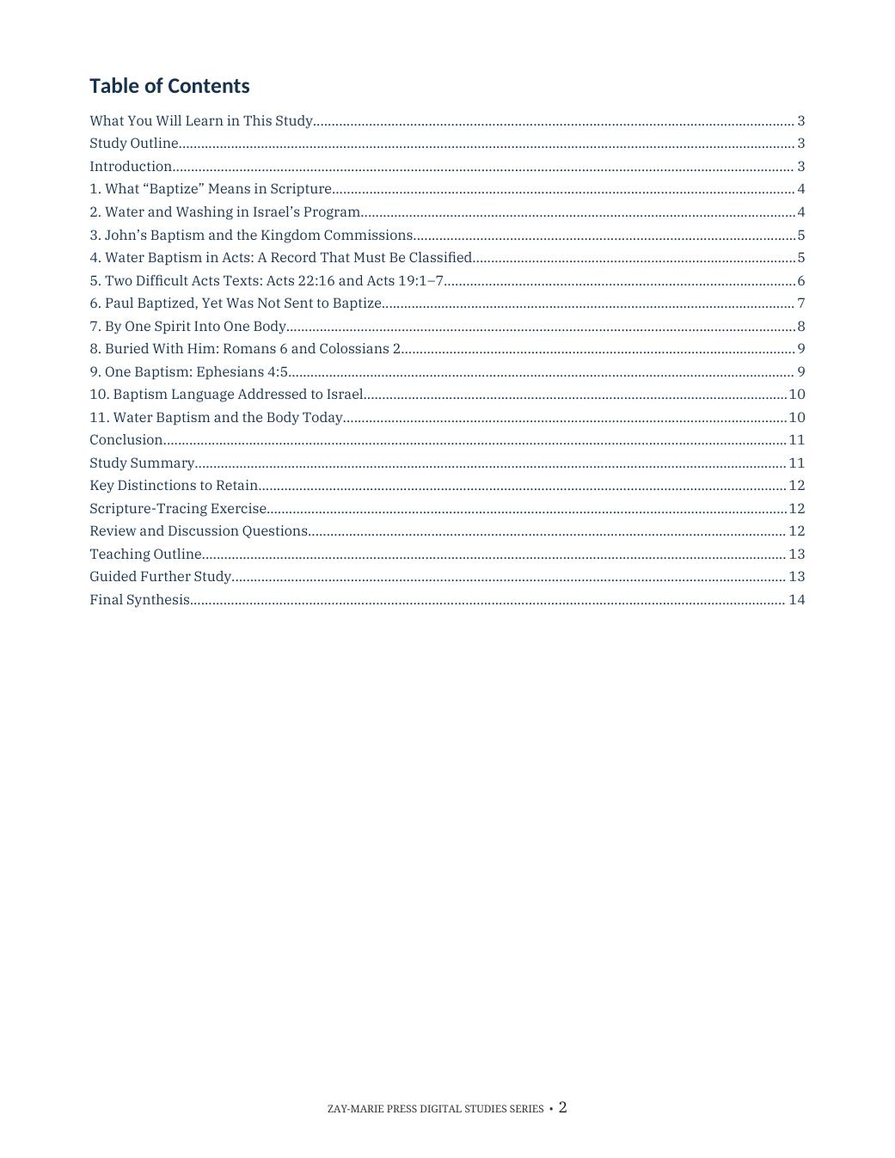
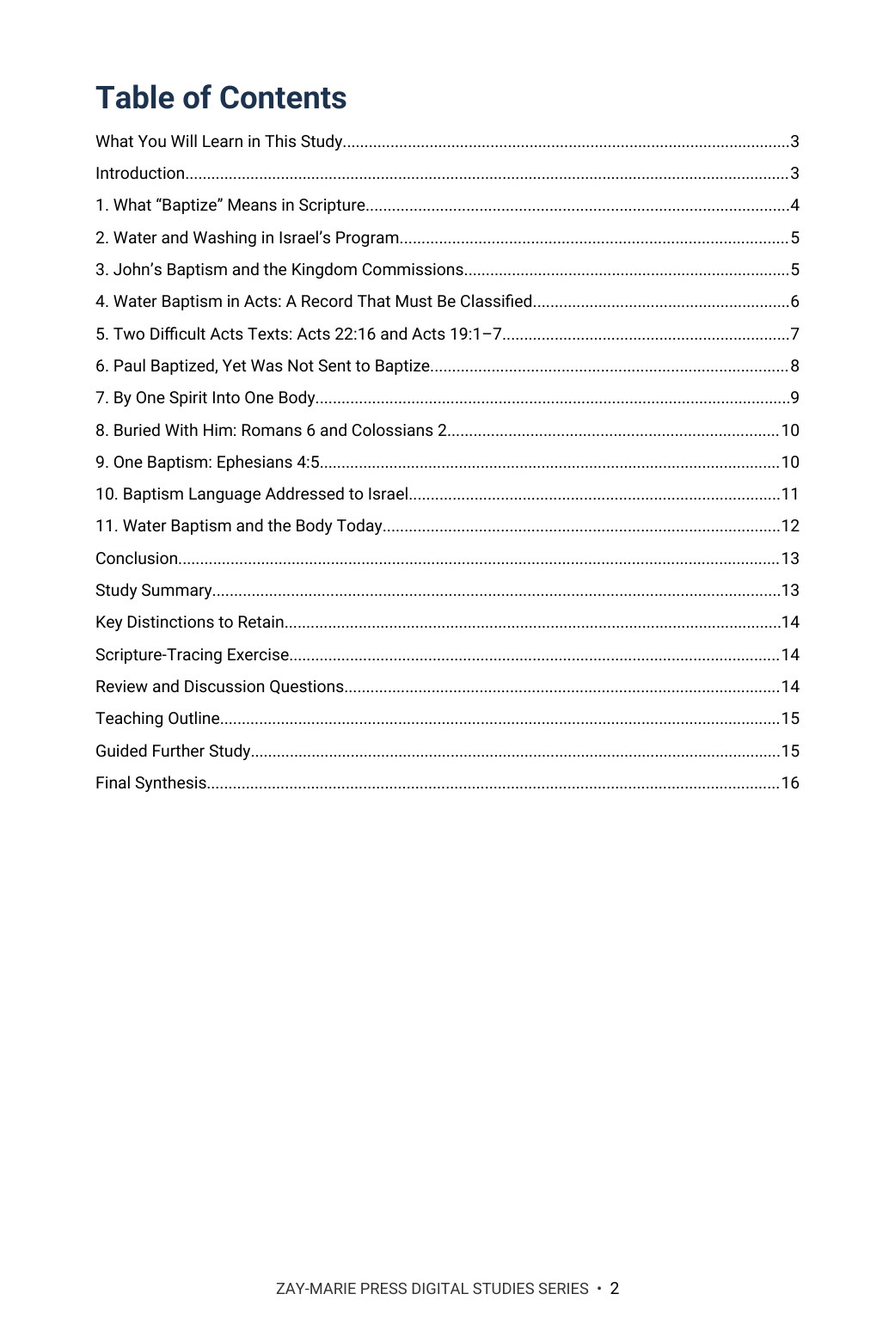
Study 42: Roboto/Standard rebuild, website cover kept, KJV tables, previews 2/3/6, 16 pages; PAM audit v1.73
Claude-Session: https://claude.ai/code/session_013kzJPyMkodVfrxEZGjk3me

diff --git a/study-42-one-baptism.html b/study-42-one-baptism.html
@@ -1,5 +1,5 @@
 <!doctype html>
 <html lang="en"><head><meta charset="utf-8"><meta name="viewport" content="width=device-width,initial-scale=1"><title>One Baptism | Zay-Marie Press</title><meta name="description" content="What is the one baptism of Ephesians 4:5? Define baptism from Scripture, classify every water baptism in Acts, and trace Paul’s teaching on Spirit baptism into the one Body. Preview Study 42 from Zay-Marie Press."><link rel="stylesheet" href="styles.css?v=20260921-4"><link rel="icon" type="image/png" href="assets/zay-marie-press-favicon.png"><style>
 .study-detail-page{background:#fff;color:#252525}.detail-hero{background:linear-gradient(135deg,#f8f5ec,#e3ece2);padding:58px 0}.detail-hero-grid{display:grid;grid-template-columns:minmax(250px,.72fr) minmax(0,1.28fr);gap:58px;align-items:center}.detail-cover{max-width:390px;margin:auto}.detail-cover img{display:block;width:100%;height:auto;box-shadow:0 14px 36px rgba(8,45,69,.18)}.detail-hero h1{font-size:clamp(2.7rem,5vw,4.7rem);line-height:1.02;margin:8px 0 10px;color:#143823}.detail-subtitle{font-family:Georgia,serif;font-size:1.35rem;font-weight:700;color:#082d45;margin:0 0 7px}.detail-kicker{font-family:Georgia,serif;font-style:italic;font-size:1.05rem;color:#4a4a44;margin:0 0 22px}.detail-copy{font-size:1.08rem;line-height:1.65;max-width:760px}.detail-buyline{display:flex;align-items:center;gap:18px;flex-wrap:wrap;margin-top:25px}.detail-price{font-family:Georgia,serif;font-size:2rem;font-weight:700;color:#143823}.detail-format,.preview-card .page-no{font-family:Arial,sans-serif;font-size:.76rem;font-weight:700;letter-spacing:.1em;text-transform:uppercase;color:#176b3a}.detail-button{display:inline-block;background:#176b3a;color:#fff;padding:13px 22px;font-family:Arial,sans-serif;font-size:.8rem;font-weight:700;letter-spacing:.07em;text-transform:uppercase}.detail-button.pending{opacity:.72;cursor:default}.detail-section{padding:66px 0}.detail-section.soft{background:#f6f7f2}.detail-section.cream{background:#faf8f2}.detail-section h2{color:#143823;margin:6px 0 18px;font-size:clamp(2rem,3.4vw,3rem)}.detail-section .lead{max-width:920px;font-size:1.1rem;line-height:1.62}.study-distinction{max-width:920px;margin-top:28px;margin-bottom:28px;padding:26px 28px;background:#fff;border:1px solid #d8d1bf;border-left:4px solid #b8871c}.study-distinction h3{margin:0 0 10px;color:#143823}.study-distinction p{margin:0 0 14px;line-height:1.62}.study-distinction a{font-family:Arial,sans-serif;font-weight:700;color:#176b3a;text-decoration:none}.study-points{display:grid;grid-template-columns:repeat(3,1fr);gap:18px;margin-top:28px;margin-bottom:28px}.study-point,.scripture-card,.preview-card,.include-item{background:#fff;border:1px solid var(--line);text-align:left}.study-point{border-top:3px solid #176b3a;padding:22px}.study-point h3{color:#143823;margin:0 0 8px;font-size:1.2rem}.study-point p,.scripture-card p,.preview-card p,.include-item p{margin:0;line-height:1.55}.scripture-grid{display:grid;grid-template-columns:repeat(4,1fr);gap:14px;margin-top:24px;margin-bottom:24px}.scripture-card{padding:22px 20px;color:#143823}.scripture-card h3{margin:0 0 9px;font-family:Georgia,serif;font-size:1rem;line-height:1.35}.scripture-card p{font-size:.94rem;color:#45453f}.excerpt{max-width:900px;margin:28px auto;border-left:4px solid #b8871c;padding:10px 0 10px 28px}.excerpt blockquote{font-family:Georgia,serif;font-size:clamp(1.45rem,2.5vw,2rem);line-height:1.45;color:#143823;margin:0 0 16px}.excerpt p{line-height:1.6;margin:0}.preview-grid{display:grid;grid-template-columns:repeat(2,1fr);gap:20px;margin-top:28px;margin-bottom:28px}.preview-card{padding:18px;min-height:210px;box-shadow:0 7px 20px rgba(20,40,25,.05)}.preview-image-link{display:block;margin:0 0 18px}.preview-image-link img{display:block;width:100%;height:auto;border:1px solid #d8d1bf;box-shadow:0 8px 22px rgba(20,40,25,.1);transition:transform .18s ease,box-shadow .18s ease}.preview-image-link:hover img{transform:translateY(-2px);box-shadow:0 11px 28px rgba(20,40,25,.16)}.preview-card h3{color:#143823;margin:8px 0 10px}.preview-instruction{margin:10px 0 0;font-family:Arial,sans-serif;font-size:.78rem;letter-spacing:.04em;color:#5b5b55}.includes-grid{display:grid;grid-template-columns:repeat(4,1fr);gap:14px;margin-top:26px}.include-item{padding:22px 20px;color:#143823}.include-item h3{margin:0 0 9px;font-family:Arial,sans-serif;font-size:.86rem;line-height:1.35;letter-spacing:.02em}.include-item p{font-size:.94rem;color:#45453f}.final-buy{background:#082d45;color:#fff;border-top:4px solid #b8871c;padding:42px 48px;display:grid;grid-template-columns:1fr auto;gap:36px;align-items:center}.final-buy .eyebrow,.final-buy h2,.final-buy .detail-price{color:#fff}.final-buy h2{margin:7px 0 6px}.final-buy p{margin:0}.final-offer{text-align:center}.back-link{display:inline-block;margin-top:18px;color:#143823;font-family:Arial,sans-serif;font-weight:700;text-decoration:none}.preview-lightbox{position:fixed;inset:0;z-index:10000;display:none;align-items:flex-start;justify-content:center;background:rgba(8,22,16,.88);padding:24px;overflow:auto}.preview-lightbox.open{display:flex}.preview-lightbox img{display:block;width:auto;height:auto;max-width:none;box-shadow:0 18px 55px rgba(0,0,0,.4);background:#fff}.preview-lightbox-close{position:fixed;top:18px;right:24px;z-index:10001;width:46px;height:46px;border:1px solid rgba(255,255,255,.65);border-radius:50%;background:rgba(0,0,0,.55);color:#fff;font:32px/1 Arial,sans-serif;cursor:pointer}@media(max-width:900px){.detail-hero-grid{grid-template-columns:1fr;gap:34px}.detail-cover{max-width:330px}.study-points{grid-template-columns:repeat(2,1fr)}.scripture-grid,.includes-grid{grid-template-columns:repeat(2,1fr)}.preview-grid,.final-buy{grid-template-columns:1fr}.final-offer{text-align:left}}@media(max-width:560px){.detail-hero{padding:42px 0}.detail-section{padding:50px 0}.study-points,.scripture-grid,.includes-grid{grid-template-columns:1fr}.final-buy{padding:32px 24px}.detail-buyline{align-items:flex-start;flex-direction:column;gap:8px}.preview-lightbox{padding:58px 10px 24px}.preview-lightbox img{width:100%;max-width:100%;height:auto}} .detail-hero h1{font-size:clamp(2.1rem,4.2vw,3.7rem);line-height:1.08}</style></head><body class="study-detail-page">
-<header class="site-header"><div class="wrap nav"><a class="logo" href="index.html" aria-label="Zay-Marie Press home"><img src="assets/zay-marie-press-logo-hq.png" alt="Zay-Marie Press" width="420" height="238"></a><button class="menu-toggle" type="button" aria-expanded="false" aria-controls="primary-nav">MENU</button><nav aria-label="Primary navigation" class="primary-nav" id="primary-nav"><a href="index.html">HOME</a><a href="books.html">BOOKS</a><a href="series.html">SERIES</a><a class="active" aria-current="page" href="digital-studies.html">DIGITAL STUDIES</a><a href="biblical-hermeneutics-course.html">COURSE</a><a href="about.html">ABOUT</a><a href="resources.html">RESOURCES</a><a href="contact.html">CONTACT</a></nav></div></header><main><section class="detail-hero"><div class="wrap detail-hero-grid"><div class="detail-cover"><picture><source srcset="assets/study-42-cover.webp" type="image/webp"><img src="assets/study-42-cover.jpg" alt="One Baptism — Study 42 cover"></picture></div><div><div class="eyebrow">STUDY 42 · DIGITAL STUDY</div><h1>One Baptism</h1><p class="detail-subtitle">Water Baptism, Spirit Baptism, and the Body of Christ</p><p class="detail-kicker">A Biblical Examination of Baptism’s Meaning, the Water Baptisms in Acts, and the Baptism Paul Teaches the Body</p><p class="detail-copy">Paul writes that there is “one baptism.” Yet Scripture records John’s baptism, the baptism commanded by the Twelve, baptisms during Paul’s own ministry, a baptism by one Spirit into one body, and a baptism unto Moses in which no one got wet.</p><p class="detail-copy">This study defines baptism from Scripture, classifies every water baptism recorded in Acts, and follows Paul’s own teaching to the one baptism that places every believer into the Body of Christ.</p><div class="detail-buyline"><span class="detail-price">$5.99</span><span class="detail-format">Digital PDF · 15 Pages</span><span class="detail-button pending" aria-disabled="true">Checkout Coming Soon</span></div></div></div></section><section class="detail-section"><div class="wrap"><div class="eyebrow">ABOUT THIS STUDY</div><h2>Many Baptisms, One Baptism</h2><p class="lead">Baptism in Scripture means identification, and the element varies: water, the Spirit, suffering, even a cloud and a sea. Reading each baptism by its agent, element, and result removes most of the contradictions readers find when every use of the word is assumed to mean the same act.</p><p class="lead">Water baptism belongs to Israel’s program, from priestly washing to John’s baptism and the commission of the Twelve, and it continues throughout Acts. Paul baptized a few people during the overlap, yet wrote that Christ “sent me not to baptize.” In his letters, the Body’s baptism is the Spirit’s work of placing every believer into Christ.</p><p class="lead">This is not a study of Peter’s Pentecost command in isolation, which Study 20 reads in its own audience and setting, nor of Mark 16’s sign commission joining belief and baptism, which Study 25 examines on its own terms, nor of the Spirit’s repeated fillings in Acts, which Study 34 distinguishes from a once-for-all baptism. Its task is broader: to classify every baptism Scripture names — by agent, element, and result — and to identify which one alone places a believer into the Body.</p><div class="study-distinction"><h3>How These Studies Relate</h3><p>Study 42 defines baptism from Scripture and identifies from Paul’s letters the one baptism that places believers into the Body of Christ.</p><p><a href="study-20-understanding-acts-2-38.html">Study 20 — Understanding Acts 2:38</a> Read Peter’s Pentecost command to Israel in detail; this study classifies it among the many baptisms Scripture describes.</p><p><a href="study-25-the-signs-that-followed.html">Study 25 — The Signs That Followed</a> Examine the Kingdom commission that joins belief and baptism in Mark 16, which this study distinguishes from Paul’s commission.</p><p><a href="study-34-filled-again.html">Study 34 — Filled Again</a> Follow the Spirit’s fillings in Acts, which this study distinguishes from the Spirit’s once-for-all baptism into the one Body.</p><p class="connection-guide-link"><a href="study-connections.html#study-42">Explore the full connection guide for Study 42 →</a></p></div></div></section><section class="detail-section soft"><div class="wrap"><div class="eyebrow">WHAT YOU’LL STUDY</div><h2>Let Each Baptism Be Read on Its Own Terms</h2><div class="study-points"><div class="study-point"><h3>What “Baptize” Means</h3><p>See why baptism means identification, including baptisms in which no water touches anyone.</p></div><div class="study-point"><h3>Water in Israel’s Program</h3><p>Trace priestly washing, the prophets’ promised cleansing, and John’s stated purpose for his baptism.</p></div><div class="study-point"><h3>Every Baptism in Acts</h3><p>Classify each recorded water baptism by audience, administrator, order, and stated purpose.</p></div><div class="study-point"><h3>The Difficult Texts</h3><p>Work through Acts 22:16, Acts 19:1–7, and Peter’s own comment on Cornelius in Acts 11:16.</p></div><div class="study-point"><h3>Not Sent to Baptize</h3><p>Read 1 Corinthians 1:13–17, and see why Paul baptized a few during the overlap without making it part of his commission.</p></div><div class="study-point"><h3>The One Baptism</h3><p>Follow 1 Corinthians 12:13, Galatians 3:27, Romans 6, and Colossians 2 to Ephesians 4:5.</p></div></div></div></section><section class="detail-section cream"><div class="wrap"><div class="eyebrow">KEY SCRIPTURES</div><h2>Examine the Passages for Yourself</h2><div class="scripture-grid"><div class="scripture-card"><h3>1 Corinthians 10:1–2</h3><p>Israel was baptized unto Moses in the cloud and in the sea while crossing on dry ground.</p></div><div class="scripture-card"><h3>John 1:31</h3><p>John baptized with water so that Messiah would be made manifest to Israel.</p></div><div class="scripture-card"><h3>Acts 11:16</h3><p>Peter remembers that John baptized with water, but they would be baptized with the Holy Ghost.</p></div><div class="scripture-card"><h3>Acts 22:16</h3><p>Ananias’s instruction at Paul’s calling, read in its own setting.</p></div><div class="scripture-card"><h3>1 Corinthians 1:17</h3><p>“Christ sent me not to baptize, but to preach the gospel.”</p></div><div class="scripture-card"><h3>1 Corinthians 12:13</h3><p>By one Spirit every believer is baptized into one body.</p></div><div class="scripture-card"><h3>Romans 6:3–4; Colossians 2:11–12</h3><p>Buried and raised with Christ through the operation of God, with a circumcision made without hands.</p></div><div class="scripture-card"><h3>Ephesians 4:4–6</h3><p>One body, one Spirit, one Lord, one faith, one baptism.</p></div></div></div></section><section class="detail-section"><div class="wrap"><div class="eyebrow">FROM THE STUDY</div><h2>The Baptism That Makes the Body One</h2><div class="excerpt"><blockquote>“Paul does not write ‘one water baptism and one Spirit baptism.’ He writes ‘one baptism.’”</blockquote><p>Water baptism was commanded in Israel’s program and continued throughout Acts. The baptism Paul names among the unities of the Body is the one that makes the Body one: the Spirit’s placement of every believer into Christ.</p></div></div></section><section class="detail-section soft"><div class="wrap"><div class="eyebrow">A LOOK INSIDE</div><h2>Preview the Study Before You Purchase</h2><p class="preview-instruction">Click any page to enlarge it for reading.</p><div class="preview-grid"><div class="preview-card"><a class="preview-image-link" data-preview-lightbox href="assets/study-42-page-2.jpg"><img src="assets/study-42-page-2.jpg" alt="Study 42 page 2: table of contents"></a><div class="page-no">Page 2</div><h3>Table of Contents</h3><p>See the study’s full structure and scope at a glance.</p></div><div class="preview-card"><a class="preview-image-link" data-preview-lightbox href="assets/study-42-page-3.jpg"><img src="assets/study-42-page-3.jpg" alt="Study 42 page 3: what you will learn, study goal, and study outline"></a><div class="page-no">Page 3</div><h3>What You Will Learn</h3><p>See the study’s goal, outline, and the question it sets out to answer.</p></div><div class="preview-card"><a class="preview-image-link" data-preview-lightbox href="assets/study-42-page-7.jpg"><img src="assets/study-42-page-7.jpg" alt="Study 42 page 7: Paul baptized, yet was not sent to baptize, and why he baptized a few"></a><div class="page-no">Page 7</div><h3>Not Sent to Baptize</h3><p>Read Paul’s account of the baptisms he performed and why he baptized a few during the overlap.</p></div></div></div></section><section class="detail-section"><div class="wrap"><div class="eyebrow">WHAT’S INCLUDED</div><h2>A Focused Study Built for<br>Understanding and Teaching</h2><div class="includes-grid"><div class="include-item"><h3>15-Page In-Depth Biblical Study</h3><p>A careful study of baptism in Scripture and the one baptism of the Body.</p></div><div class="include-item"><h3>11 Core Teaching Sections</h3><p>Progress from the word’s meaning through Israel, Acts, and Paul’s letters.</p></div><div class="include-item"><h3>Two Reference Tables</h3><p>Compare the baptisms of Scripture and classify every water baptism in Acts.</p></div><div class="include-item"><h3>Four Worked Tests</h3><p>Test four common claims about baptism, including baptism as a commanded public testimony.</p></div><div class="include-item"><h3>14 Review Questions</h3><p>Test the study’s distinctions concerning agent, element, audience, and program.</p></div><div class="include-item"><h3>Teaching Outline</h3><p>A ready framework for teaching the doctrine of baptism with precision.</p></div><div class="include-item"><h3>Guided Further Study</h3><p>Return to Israel’s washings, John’s baptism, Acts, and Paul’s letters with directed questions.</p></div><div class="include-item"><h3>Final Synthesis Exercise</h3><p>Bring the evidence together in one concise, Scripture-based explanation.</p></div></div></div></section><section class="detail-section cream"><div class="wrap"><div class="final-buy"><div><div class="eyebrow">STUDY 42 · DIGITAL STUDY</div><h2>One Baptism</h2><p>15-page digital PDF · For personal use</p></div><div class="final-offer"><div class="detail-price">$5.99</div><span class="detail-button pending" aria-disabled="true">Checkout Coming Soon</span></div></div><a class="back-link" href="digital-studies.html">← Back to All Digital Studies</a></div></section><section class="study-method-course-bridge"><div class="wrap"><div class="study-method-course-panel"><div><div class="eyebrow">BUILD THE INTERPRETIVE METHOD</div><h2>Want More Than a Focused Study?</h2><p>Digital Studies examine particular biblical subjects and difficult passages. The 40-lesson Biblical Hermeneutics course teaches a complete, repeatable method for establishing meaning in context, determining proper assignment, and making responsible application.</p></div><a class="btn btn-primary" href="biblical-hermeneutics-course.html">BIBLICAL HERMENEUTICS COURSE</a></div></div></section></main>
+<header class="site-header"><div class="wrap nav"><a class="logo" href="index.html" aria-label="Zay-Marie Press home"><img src="assets/zay-marie-press-logo-hq.png" alt="Zay-Marie Press" width="420" height="238"></a><button class="menu-toggle" type="button" aria-expanded="false" aria-controls="primary-nav">MENU</button><nav aria-label="Primary navigation" class="primary-nav" id="primary-nav"><a href="index.html">HOME</a><a href="books.html">BOOKS</a><a href="series.html">SERIES</a><a class="active" aria-current="page" href="digital-studies.html">DIGITAL STUDIES</a><a href="biblical-hermeneutics-course.html">COURSE</a><a href="about.html">ABOUT</a><a href="resources.html">RESOURCES</a><a href="contact.html">CONTACT</a></nav></div></header><main><section class="detail-hero"><div class="wrap detail-hero-grid"><div class="detail-cover"><picture><source srcset="assets/study-42-cover.webp" type="image/webp"><img src="assets/study-42-cover.jpg" alt="One Baptism — Study 42 cover"></picture></div><div><div class="eyebrow">STUDY 42 · DIGITAL STUDY</div><h1>One Baptism</h1><p class="detail-subtitle">Water Baptism, Spirit Baptism, and the Body of Christ</p><p class="detail-kicker">A Biblical Examination of Baptism’s Meaning, the Water Baptisms in Acts, and the Baptism Paul Teaches the Body</p><p class="detail-copy">Paul writes that there is “one baptism.” Yet Scripture records John’s baptism, the baptism commanded by the Twelve, baptisms during Paul’s own ministry, a baptism by one Spirit into one body, and a baptism unto Moses in which no one got wet.</p><p class="detail-copy">This study defines baptism from Scripture, classifies every water baptism recorded in Acts, and follows Paul’s own teaching to the one baptism that places every believer into the Body of Christ.</p><div class="detail-buyline"><span class="detail-price">$5.99</span><span class="detail-format">Digital PDF · 16 Pages</span><span class="detail-button pending" aria-disabled="true">Checkout Coming Soon</span></div></div></div></section><section class="detail-section"><div class="wrap"><div class="eyebrow">ABOUT THIS STUDY</div><h2>Many Baptisms, One Baptism</h2><p class="lead">Baptism in Scripture means identification, and the element varies: water, the Spirit, suffering, even a cloud and a sea. Reading each baptism by its agent, element, and result removes most of the contradictions readers find when every use of the word is assumed to mean the same act.</p><p class="lead">Water baptism belongs to Israel’s program, from priestly washing to John’s baptism and the commission of the Twelve, and it continues throughout Acts. Paul baptized a few people during the overlap, yet wrote that Christ “sent me not to baptize.” In his letters, the Body’s baptism is the Spirit’s work of placing every believer into Christ.</p><p class="lead">This is not a study of Peter’s Pentecost command in isolation, which Study 20 reads in its own audience and setting, nor of Mark 16’s sign commission joining belief and baptism, which Study 25 examines on its own terms, nor of the Spirit’s repeated fillings in Acts, which Study 34 distinguishes from a once-for-all baptism. Its task is broader: to classify every baptism Scripture names — by agent, element, and result — and to identify which one alone places a believer into the Body.</p><div class="study-distinction"><h3>How These Studies Relate</h3><p>Study 42 defines baptism from Scripture and identifies from Paul’s letters the one baptism that places believers into the Body of Christ.</p><p><a href="study-20-understanding-acts-2-38.html">Study 20 — Understanding Acts 2:38</a> Read Peter’s Pentecost command to Israel in detail; this study classifies it among the many baptisms Scripture describes.</p><p><a href="study-25-the-signs-that-followed.html">Study 25 — The Signs That Followed</a> Examine the Kingdom commission that joins belief and baptism in Mark 16, which this study distinguishes from Paul’s commission.</p><p><a href="study-34-filled-again.html">Study 34 — Filled Again</a> Follow the Spirit’s fillings in Acts, which this study distinguishes from the Spirit’s once-for-all baptism into the one Body.</p><p class="connection-guide-link"><a href="study-connections.html#study-42">Explore the full connection guide for Study 42 →</a></p></div></div></section><section class="detail-section soft"><div class="wrap"><div class="eyebrow">WHAT YOU’LL STUDY</div><h2>Let Each Baptism Be Read on Its Own Terms</h2><div class="study-points"><div class="study-point"><h3>What “Baptize” Means</h3><p>See why baptism means identification, including baptisms in which no water touches anyone.</p></div><div class="study-point"><h3>Water in Israel’s Program</h3><p>Trace priestly washing, the prophets’ promised cleansing, and John’s stated purpose for his baptism.</p></div><div class="study-point"><h3>Every Baptism in Acts</h3><p>Classify each recorded water baptism by audience, administrator, order, and stated purpose.</p></div><div class="study-point"><h3>The Difficult Texts</h3><p>Work through Acts 22:16, Acts 19:1–7, and Peter’s own comment on Cornelius in Acts 11:16.</p></div><div class="study-point"><h3>Not Sent to Baptize</h3><p>Read 1 Corinthians 1:13–17, and see why Paul baptized a few during the overlap without making it part of his commission.</p></div><div class="study-point"><h3>The One Baptism</h3><p>Follow 1 Corinthians 12:13, Galatians 3:27, Romans 6, and Colossians 2 to Ephesians 4:5.</p></div></div></div></section><section class="detail-section cream"><div class="wrap"><div class="eyebrow">KEY SCRIPTURES</div><h2>Examine the Passages for Yourself</h2><div class="scripture-grid"><div class="scripture-card"><h3>1 Corinthians 10:1–2</h3><p>Israel was baptized unto Moses in the cloud and in the sea while crossing on dry ground.</p></div><div class="scripture-card"><h3>John 1:31</h3><p>John baptized with water so that Messiah would be made manifest to Israel.</p></div><div class="scripture-card"><h3>Acts 11:16</h3><p>Peter remembers that John baptized with water, but they would be baptized with the Holy Ghost.</p></div><div class="scripture-card"><h3>Acts 22:16</h3><p>Ananias’s instruction at Paul’s calling, read in its own setting.</p></div><div class="scripture-card"><h3>1 Corinthians 1:17</h3><p>“Christ sent me not to baptize, but to preach the gospel.”</p></div><div class="scripture-card"><h3>1 Corinthians 12:13</h3><p>By one Spirit every believer is baptized into one body.</p></div><div class="scripture-card"><h3>Romans 6:3–4; Colossians 2:11–12</h3><p>Buried and raised with Christ through the operation of God, with a circumcision made without hands.</p></div><div class="scripture-card"><h3>Ephesians 4:4–6</h3><p>One body, one Spirit, one Lord, one faith, one baptism.</p></div></div></div></section><section class="detail-section"><div class="wrap"><div class="eyebrow">FROM THE STUDY</div><h2>The Baptism That Makes the Body One</h2><div class="excerpt"><blockquote>“Paul does not write ‘one water baptism and one Spirit baptism.’ He writes ‘one baptism.’”</blockquote><p>Water baptism was commanded in Israel’s program and continued throughout Acts. The baptism Paul names among the unities of the Body is the one that makes the Body one: the Spirit’s placement of every believer into Christ.</p></div></div></section><section class="detail-section soft"><div class="wrap"><div class="eyebrow">A LOOK INSIDE</div><h2>Preview the Study Before You Purchase</h2><p class="preview-instruction">Click any page to enlarge it for reading.</p><div class="preview-grid"><div class="preview-card"><a class="preview-image-link" data-preview-lightbox href="assets/study-42-page-2.jpg"><img src="assets/study-42-page-2.jpg" alt="Study 42 page 2: table of contents"></a><div class="page-no">Page 2</div><h3>Table of Contents</h3><p>See the study’s full structure and scope at a glance.</p></div><div class="preview-card"><a class="preview-image-link" data-preview-lightbox href="assets/study-42-page-3.jpg"><img src="assets/study-42-page-3.jpg" alt="Study 42 page 3: what you will learn, study goal, and study outline"></a><div class="page-no">Page 3</div><h3>What You Will Learn</h3><p>See the study’s goal, outline, and the question it sets out to answer.</p></div><div class="preview-card"><a class="preview-image-link" data-preview-lightbox href="assets/study-42-page-6.jpg"><img src="assets/study-42-page-6.jpg" alt="Study 42 page 6: water baptism in Acts, with the table that classifies each recorded baptism"></a><div class="page-no">Page 6</div><h3>Water Baptism in Acts</h3><p>See how the study classifies each recorded water baptism by setting, audience, and administrator.</p></div></div></div></section><section class="detail-section"><div class="wrap"><div class="eyebrow">WHAT’S INCLUDED</div><h2>A Focused Study Built for<br>Understanding and Teaching</h2><div class="includes-grid"><div class="include-item"><h3>16-Page In-Depth Biblical Study</h3><p>A careful study of baptism in Scripture and the one baptism of the Body.</p></div><div class="include-item"><h3>11 Core Teaching Sections</h3><p>Progress from the word’s meaning through Israel, Acts, and Paul’s letters.</p></div><div class="include-item"><h3>Five Reference Tables</h3><p>Compare the baptisms of Scripture, classify every water baptism in Acts, and read key passages side by side in the KJV.</p></div><div class="include-item"><h3>Four Worked Tests</h3><p>Test four common claims about baptism, including baptism as a commanded public testimony.</p></div><div class="include-item"><h3>14 Review Questions</h3><p>Test the study’s distinctions concerning agent, element, audience, and program.</p></div><div class="include-item"><h3>Teaching Outline</h3><p>A ready framework for teaching the doctrine of baptism with precision.</p></div><div class="include-item"><h3>Guided Further Study</h3><p>Return to Israel’s washings, John’s baptism, Acts, and Paul’s letters with directed questions.</p></div><div class="include-item"><h3>Final Synthesis Exercise</h3><p>Bring the evidence together in one concise, Scripture-based explanation.</p></div></div></div></section><section class="detail-section cream"><div class="wrap"><div class="final-buy"><div><div class="eyebrow">STUDY 42 · DIGITAL STUDY</div><h2>One Baptism</h2><p>16-page digital PDF · For personal use</p></div><div class="final-offer"><div class="detail-price">$5.99</div><span class="detail-button pending" aria-disabled="true">Checkout Coming Soon</span></div></div><a class="back-link" href="digital-studies.html">← Back to All Digital Studies</a></div></section><section class="study-method-course-bridge"><div class="wrap"><div class="study-method-course-panel"><div><div class="eyebrow">BUILD THE INTERPRETIVE METHOD</div><h2>Want More Than a Focused Study?</h2><p>Digital Studies examine particular biblical subjects and difficult passages. The 40-lesson Biblical Hermeneutics course teaches a complete, repeatable method for establishing meaning in context, determining proper assignment, and making responsible application.</p></div><a class="btn btn-primary" href="biblical-hermeneutics-course.html">BIBLICAL HERMENEUTICS COURSE</a></div></div></section></main>
 <div class="preview-lightbox" id="preview-lightbox" role="dialog" aria-modal="true" aria-label="Expanded study preview"><button class="preview-lightbox-close" type="button" aria-label="Close preview">×</button><img id="preview-lightbox-image" alt=""></div><footer class="site-footer"><div class="wrap footer-grid"><div class="footer-about"><h3>Zay-Marie Press</h3><p class="footer-tagline"><em>Where the Bible Means What It Says.</em></p><p>Zay-Marie Press is a Christian theological publisher dedicated to producing doctrinally precise, carefully structured biblical resources that equip pastors, teachers, and serious students with clarity, depth, and Scripture-anchored truth.</p><p><a href="https://zaymariepress.com">zaymariepress.com</a><br><a href="mailto:info@zaymariepress.com">info@zaymariepress.com</a></p></div><div class="footer-column"><h3>Explore</h3><div class="footer-links-stacked"><a href="books.html">Books</a><br><a href="series.html">Series</a><br><a href="biblical-hermeneutics-course.html">Course</a><br><a href="digital-studies.html">Digital Studies</a><br><a href="resources.html">Resources</a><br><a href="bible-book-summaries.html">Bible Book Summaries</a><br><a href="doctrinal-packets.html">Doctrinal Packets</a><br><a href="historical-drift.html">Historical Drift</a><br><a href="about.html">About</a><br><a href="contact.html">Contact</a></div></div><div class="footer-column"><h3>Reader Support</h3><div class="footer-links-stacked"><a href="reader-support.html#faq">FAQ</a><br><a href="reader-support.html#shipping-returns">Shipping &amp; Returns</a><br><a href="reader-support.html#digital-downloads">Digital Downloads</a><br><a href="reader-support.html#contact-support">Contact Support</a></div></div><div class="footer-column"><h3>Acts Overlap</h3><p><strong>Acts Overlap Theology Series</strong></p><p><em>Two Distinct Streams. One Overlap.</em></p><p><a href="series.html">Series Overview</a></p></div></div><div class="wrap footer-bottom">© 2026 Zay-Marie Press. All rights reserved.</div></footer><script src="site.js"></script><script>const lightbox=document.getElementById('preview-lightbox'),lightboxImage=document.getElementById('preview-lightbox-image'),closeLightbox=()=>{lightbox.classList.remove('open');lightboxImage.src='';};document.querySelectorAll('[data-preview-lightbox]').forEach(link=>link.addEventListener('click',event=>{event.preventDefault();lightboxImage.src=link.href;lightboxImage.alt=link.querySelector('img').alt;lightbox.classList.add('open');}));document.querySelector('.preview-lightbox-close').addEventListener('click',closeLightbox);lightbox.addEventListener('click',event=>{if(event.target===lightbox)closeLightbox();});document.addEventListener('keydown',event=>{if(event.key==='Escape')closeLightbox();});</script></body></html>

diff --git a/site.js b/site.js
@@ -62,7 +62,7 @@ const resourceModal=document.querySelector('#resource-modal'), resourceModalTitl
 if(resourceModal&&resourceModalTriggers.length){const closeResourceModal=()=>{resourceModal.hidden=true;document.body.classList.remove('resource-modal-open');lastResourceTrigger?.focus();};resourceModalTriggers.forEach(trigger=>trigger.addEventListener('click',()=>{lastResourceTrigger=trigger;if(resourceModalTitle)resourceModalTitle.textContent=trigger.dataset.title||'Resource';if(resourceModalDescription)resourceModalDescription.textContent=trigger.dataset.description||'';if(resourceModalLink){resourceModalLink.href=trigger.dataset.href||'#';resourceModalLink.textContent=trigger.dataset.linkText||'OPEN RESOURCE';}resourceModal.hidden=false;document.body.classList.add('resource-modal-open');resourceModalClose?.focus();}));resourceModalClose?.addEventListener('click',closeResourceModal);resourceModal.addEventListener('click',e=>{if(e.target===resourceModal)closeResourceModal();});document.addEventListener('keydown',e=>{if(e.key==='Escape'&&!resourceModal.hidden)closeResourceModal();});}
 
 /* Display the verified final-PDF page count at the primary purchase decision point. */
-const digitalStudyPageCounts={1:14,2:14,3:18,4:18,5:16,6:16,7:16,8:16,9:16,10:23,11:15,12:14,13:18,14:15,15:16,16:16,17:18,18:18,19:16,20:16,21:16,22:16,23:16,24:16,25:17,26:18,27:16,28:16,29:16,30:17,31:19,32:16,33:16,34:16,35:16,36:16,37:16,38:16,39:16,40:16,41:16,42:15,43:17,44:15,45:15,46:15,47:16,48:15,49:14,50:14,51:15,52:15,53:15,54:15,55:16,56:16,61:16,62:16,63:16,64:16,65:16,66:16,67:16,68:16,69:16,70:16,71:16};
+const digitalStudyPageCounts={1:14,2:14,3:18,4:18,5:16,6:16,7:16,8:16,9:16,10:23,11:15,12:14,13:18,14:15,15:16,16:16,17:18,18:18,19:16,20:16,21:16,22:16,23:16,24:16,25:17,26:18,27:16,28:16,29:16,30:17,31:19,32:16,33:16,34:16,35:16,36:16,37:16,38:16,39:16,40:16,41:16,42:16,43:17,44:15,45:15,46:15,47:16,48:15,49:14,50:14,51:15,52:15,53:15,54:15,55:16,56:16,61:16,62:16,63:16,64:16,65:16,66:16,67:16,68:16,69:16,70:16,71:16};
 const digitalStudyMatch=window.location.pathname.match(/\/study-(\d+)-/i);
 const digitalStudyFormat=document.querySelector('.detail-hero .detail-format');
 if(digitalStudyMatch&&digitalStudyFormat){const studyNumber=Number(digitalStudyMatch[1]),pageCount=digitalStudyPageCounts[studyNumber];if(pageCount)digitalStudyFormat.textContent=`Digital PDF · ${pageCount} Pages`;}

diff --git a/controlling-documents/Digital_Studies_PAM_Audit_v1.73.md b/controlling-documents/Digital_Studies_PAM_Audit_v1.73.md
@@ -1,4 +1,4 @@
-# Digital Studies vs. PAM Audit — v1.72
+# Digital Studies vs. PAM Audit — v1.73
 
 Working tracker and instructions for checking the Digital Studies against the Program Assignment Manual (PAM), §XIX of `Framework_Control_Document_Acts_Overlap.docx`, including its "Section 4 — Publisher Rulings". Same `_vX.Y` convention as the other controlling documents: update the status table and changelog as the audit proceeds, bump the version, and rename the file to match.
 
@@ -302,3 +302,4 @@ Study 15 PDF not yet supplied. Typography: none of Studies 2, 3, 6, 8 is in EB G
 - v1.70 (2026-10-01): Study 39 (The Church's Relationship to Israel's Scriptures) read in full against the PAM and Framework from the publisher's DOCX (FINAL REVIEW; about 13 interior pages in source): no conflicts; Rules 7–10 wording applied under the standing rules and noted in one line each. §9: "suspended at Acts 28" became national judicial suspension from Acts 28, with the approved overlap clarification added; the Rule 8 anchoring sentence added at first use of 2 Timothy (§1) and Philippians (§5); "Gentiles participate spiritually" added to the Galatians 3 paragraph; Acts 8 (Ethiopian official) marked as Prophecy Program period and not Body doctrine; the "What You Will Learn" Romans 4 sentence reworded to process wording (§17). Rebuilt to the Roboto/Standard format at 16 pages (cover + 15) with an 18-row neutral KJV Scripture-Tracing table; Roman-numeral Teaching Outline became bullets; Key Distinctions became a two-column table; Promise Control and Christological Control became bold run-ins (five boxed callouts kept). Category: Foundations. Cover: website cover, "ISRAEL'S SCRIPTURES" reduced 40%, "THE CHURCH'S RELATIONSHIP TO" reduced 20%, spacing between title lines and subtitle tightened at the publisher's direction. Website: eyebrow set to "STUDY 39 · DIGITAL STUDY"; previews now pages 2 (Table of Contents), 3 (What You Will Learn) and 5 (A Passage-by-Passage Route); the old pages 6, 9 and 12 removed; one "What You'll Study" point reworded. Approved by the publisher 2026-10-01.
 - v1.71 (2026-10-01): Study 40 (Who Is Abraham's Seed?) read in full against the PAM and Framework from the publisher's DOCX (FINAL; about 13 interior pages in source): no conflicts and no new passage needing a ruling; Rules 7–10 wording applied under the standing rules and noted in one line each. The approved overlap clarification added after "operate concurrently" in the Introduction; "Gentiles participate spiritually" added to the Galatians 3:26–29 section, the Key Distinctions row "Blessing and identity" and the §10 worked test (the text still reports Paul's wording "Abraham's seed" for those who belong to Christ without equating it with national Israel or the remnant). Preview wording (§17): the "What You Will Learn" page, the Study Goal and three Study Outline bullets (Galatians 3, 4, 5) reworded to process wording. Rebuilt to the Roboto/Standard format at 16 pages (cover + 15) with a 20-row neutral KJV Scripture-Tracing table; Roman-numeral Teaching Outline became bullets; review questions 10–12 renumbered; Galatians Control and Law Control became bold run-ins (five boxed callouts kept). Category: Israel & Prophecy. Cover: website cover, unchanged (label ISRAEL & PROPHECY). Website: eyebrow set to "STUDY 40 · DIGITAL STUDY"; page count 15 to 16 (page text and site.js); previews now pages 2 (Table of Contents), 3 (What You Will Learn) and 4 (The Genesis Promises Paul Selects); old pages 7 and 11 removed; two "What You'll Study" titles and one point reworded ("Christ the Seed" and "Believers as Heirs" gave away the conclusion). Approved by the publisher 2026-10-01.
 - v1.72 (2026-10-01): Study 41 (Kingdom of God or Kingdom of Heaven?) read in full against the PAM and Framework from the publisher's DOCX (REVISED): no conflicts and no new passage needing a ruling; Rules 7–10 wording applied under the standing rules and noted in one line each. Added the remnant clarifier ("This speaks of identity, not program membership; the remnant is ethnic-covenantal, and believing Jews are gathered into the Body during the Mystery administration") in the section on the kingdom promised to Israel, a neutral Luke 21 sentence in the "at hand" section, and the Rule 8 anchoring sentences for 2 Timothy, Revelation, 1 Thessalonians and Philippians. Preview wording (§17): the "What You Will Learn" page, the Study Goal and Study Outline bullets reworded to process wording. Rebuilt to the Roboto/Standard format at 16 pages (cover + 15) with a 13-row neutral KJV Scripture-Tracing table; Roman-numeral outlines became bullets; Key Distinctions became a two-column table; the Mystery Control became a bold run-in (five boxed callouts kept). Category: Israel & Prophecy. Cover: publisher-supplied artwork (label ISRAEL & PROPHECY), title reduced 30% and the title–subtitle gap reduced 50%. Website: page count 15 to 16 (page text and site.js); cover files replaced; previews regenerated from the final PDF as pages 2 (Table of Contents), 3 (What You Will Learn) and 4 (Where the Two Phrases Appear); old pages 7 and 9 removed. Approved by the publisher 2026-10-01.
+- v1.73 (2026-10-01): Study 42 (One Baptism) read in full against the PAM and Framework from the publisher's DOCX (FINAL): no conflicts. Conforming wording applied under Rules 7–10 and noted: the 2026-09-30 1 Peter ruling reapplied (audience "Jewish believers scattered abroad (1:1)"; "As Peter himself says, the water itself does not save"; 1 Pet 2:9 "Jewish believers"); Rule 8 anchoring sentences added for Hebrews (verbatim Standard sentence) and 1 Peter in §10; Acts 10–11 labelled a prophetic inclusion event inside the overlap (PAM Section 2). One uncovered passage ruled by the publisher: Galatians 3:27 kept as Body Spirit baptism with the verbatim clarifier "The Framework does not assign Galatians 3:27; this reading rests on the letter's own argument that nothing added to faith places believers in Christ." Rebuilt to the Roboto/Standard format at 16 pages (cover + 15); three neutral KJV tables added (Acts baptism statements, Paul's baptism language, Hebrews/1 Peter audiences); five boxed callouts (Study Goal, Vocabulary, Acts, Commission, One Baptism; Union Control became a bold run-in); Roman-numeral Teaching Outline became bullets; the two lead paragraphs from the source's first page now open the Introduction; Study Outline no longer a TOC entry. Category: Doctrinal Themes. Cover: website artwork unchanged (label DOCTRINAL THEMES). Website: page count 15 to 16 (page text and site.js); "Two Reference Tables" became "Five Reference Tables"; previews regenerated from the final PDF as pages 2 (Table of Contents), 3 (What You Will Learn) and 6 (Water Baptism in Acts, chosen over page 4 because its table's last row states the Body conclusion); old page 7 removed. Page geometry 6.72 x 10.08 in, matched to the Study 41 render. Approved by the publisher 2026-10-01.
